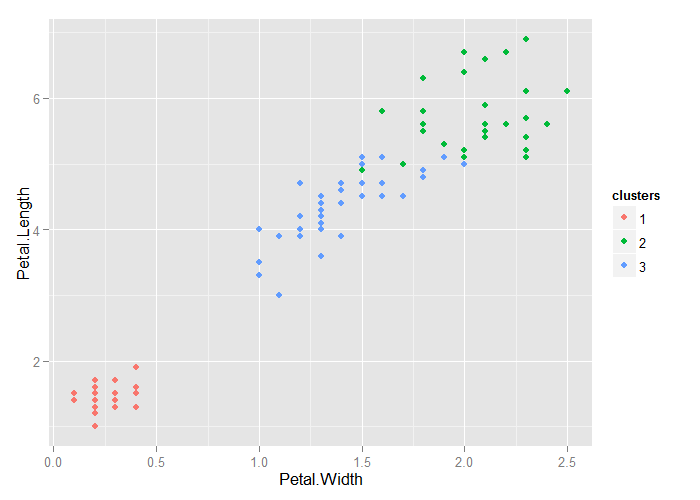
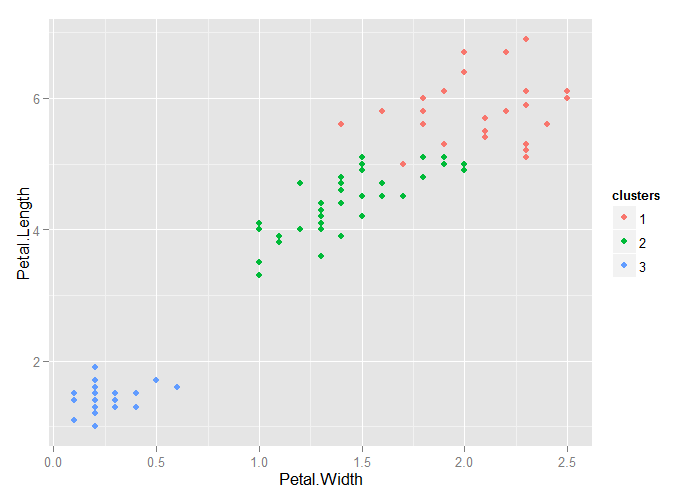
Finished PML W4 part 4 - Unsupervised Prediction.

diff --git a/Week 4/PML_W4_part_4_-_Unsupervised_Prediction.html b/Week 4/PML_W4_part_4_-_Unsupervised_Prediction.html
@@ -107,7 +107,7 @@ dim(iris.train)</code></pre>
 iris.train$clusters &lt;- as.factor(k.means1$cluster)
 qplot(Petal.Width, Petal.Length, color=clusters, data=iris.train)</code></pre>
 <div class="rimage center">
[2 lines of base64/hex data omitted]
 </div>
 <hr />
 </div>
@@ -116,9 +116,9 @@ qplot(Petal.Width, Petal.Length, color=clusters, data=iris.train)</code></pre>
 <pre class="r"><code>table(k.means1$cluster, iris.train$Species)</code></pre>
 <pre><code>   
     setosa versicolor virginica
-  1     35          0         0
-  2      0          2        26
-  3      0         33         9</code></pre>
+  1      0          2        24
+  2      0         33        11
+  3     35          0         0</code></pre>
 <hr />
 </div>
 <div id="build-predictor" class="section level2">
@@ -127,9 +127,9 @@ qplot(Petal.Width, Petal.Length, color=clusters, data=iris.train)</code></pre>
 table(predict(fit, iris.train), iris.train$Species)</code></pre>
 <pre><code>   
     setosa versicolor virginica
-  1     35          0         0
-  2      0          0        24
-  3      0         35        11</code></pre>
+  1      0          0        23
+  2      0         35        12
+  3     35          0         0</code></pre>
 <hr />
 </div>
 <div id="apply-on-test" class="section level2">
@@ -138,9 +138,9 @@ table(predict(fit, iris.train), iris.train$Species)</code></pre>
 table(test.cluster.pred, iris.test$Species)</code></pre>
 <pre><code>                 
 test.cluster.pred setosa versicolor virginica
-                1     15          0         0
-                2      0          0        10
-                3      0         15         5</code></pre>
+                1      0          0        11
+                2      0         15         4
+                3     15          0         0</code></pre>
 <hr />
 </div>
 <div id="notes-and-further-reading" class="section level2">

diff --git a/Week 4/PML_W4_part_4_-_Unsupervised_Prediction.md b/Week 4/PML_W4_part_4_-_Unsupervised_Prediction.md
@@ -64,9 +64,9 @@ table(k.means1$cluster, iris.train$Species)
 ```
    
     setosa versicolor virginica
-  1     35          0         0
-  2      0          2        26
-  3      0         33         9
+  1      0          2        24
+  2      0         33        11
+  3     35          0         0
 ```
 
 ---
@@ -82,9 +82,9 @@ table(predict(fit, iris.train), iris.train$Species)
 ```
    
     setosa versicolor virginica
-  1     35          0         0
-  2      0          0        24
-  3      0         35        11
+  1      0          0        23
+  2      0         35        12
+  3     35          0         0
 ```
 
 ---
@@ -100,9 +100,9 @@ table(test.cluster.pred, iris.test$Species)
 ```
                  
 test.cluster.pred setosa versicolor virginica
-                1     15          0         0
-                2      0          0        10
-                3      0         15         5
+                1      0          0        11
+                2      0         15         4
+                3     15          0         0
 ```
 
 ---
@@ -113,4 +113,4 @@ test.cluster.pred setosa versicolor virginica
 - Beware over-interpretation of clusters!
 - This is one basic approach to [recommendation engines](https://en.wikipedia.org/wiki/Recommender_system)
 - [Elements of Statistical Learning](http://www-stat.stanford.edu/~tibs/ElemStatLearn/)
-- [Introduction to Statistical Learning](http://www-bcf.usc.edu/~gareth/ISL/)
+- [Introduction to Statistical Learning](http://www-bcf.usc.edu/~gareth/ISL/) 
